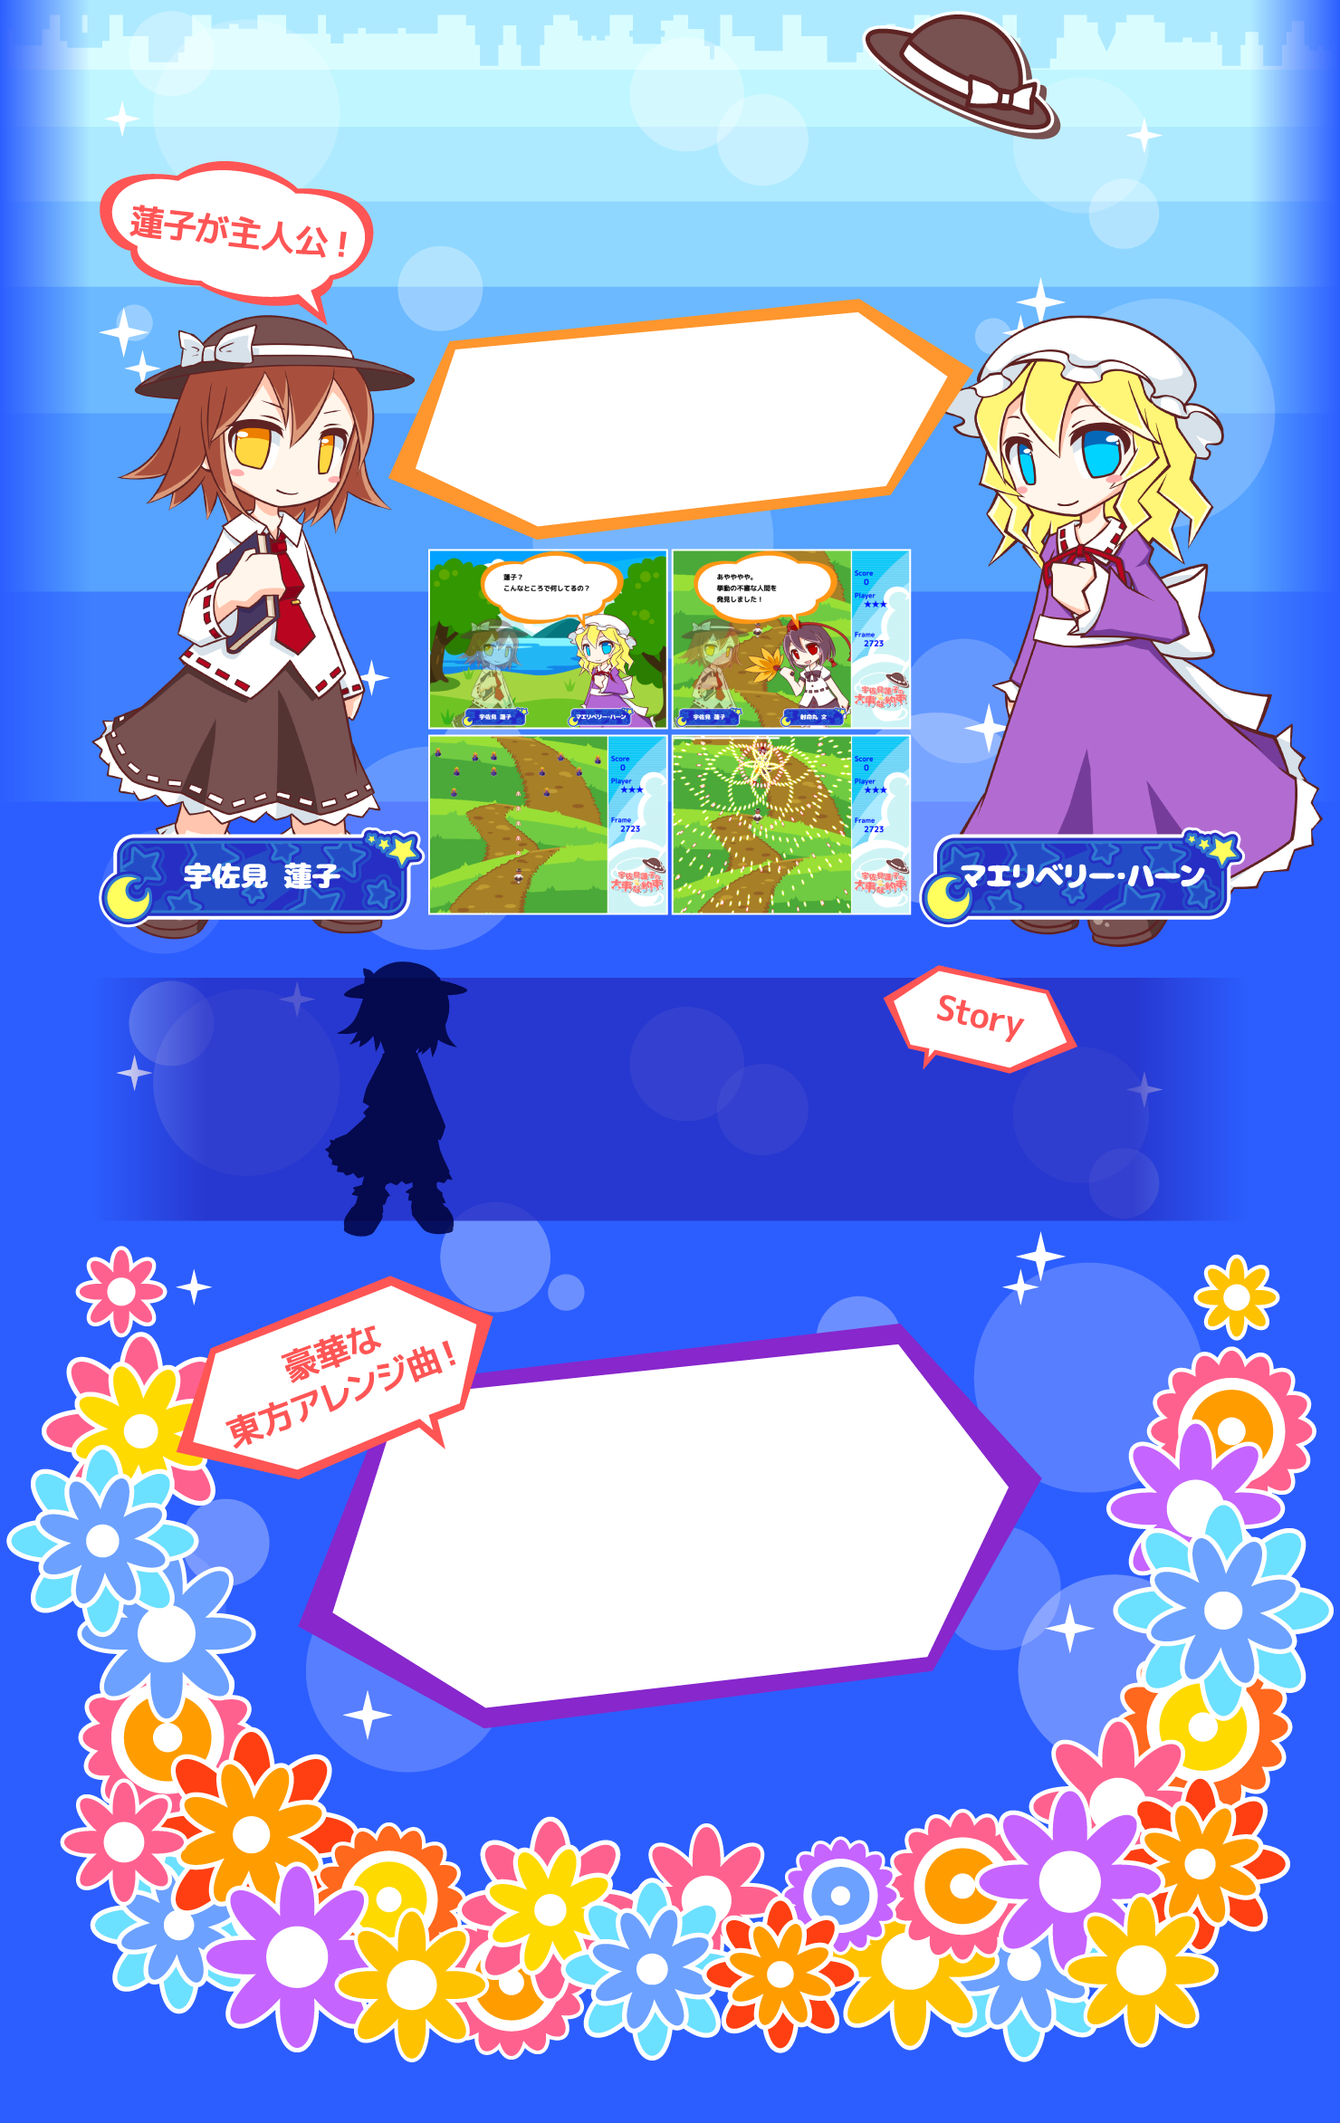
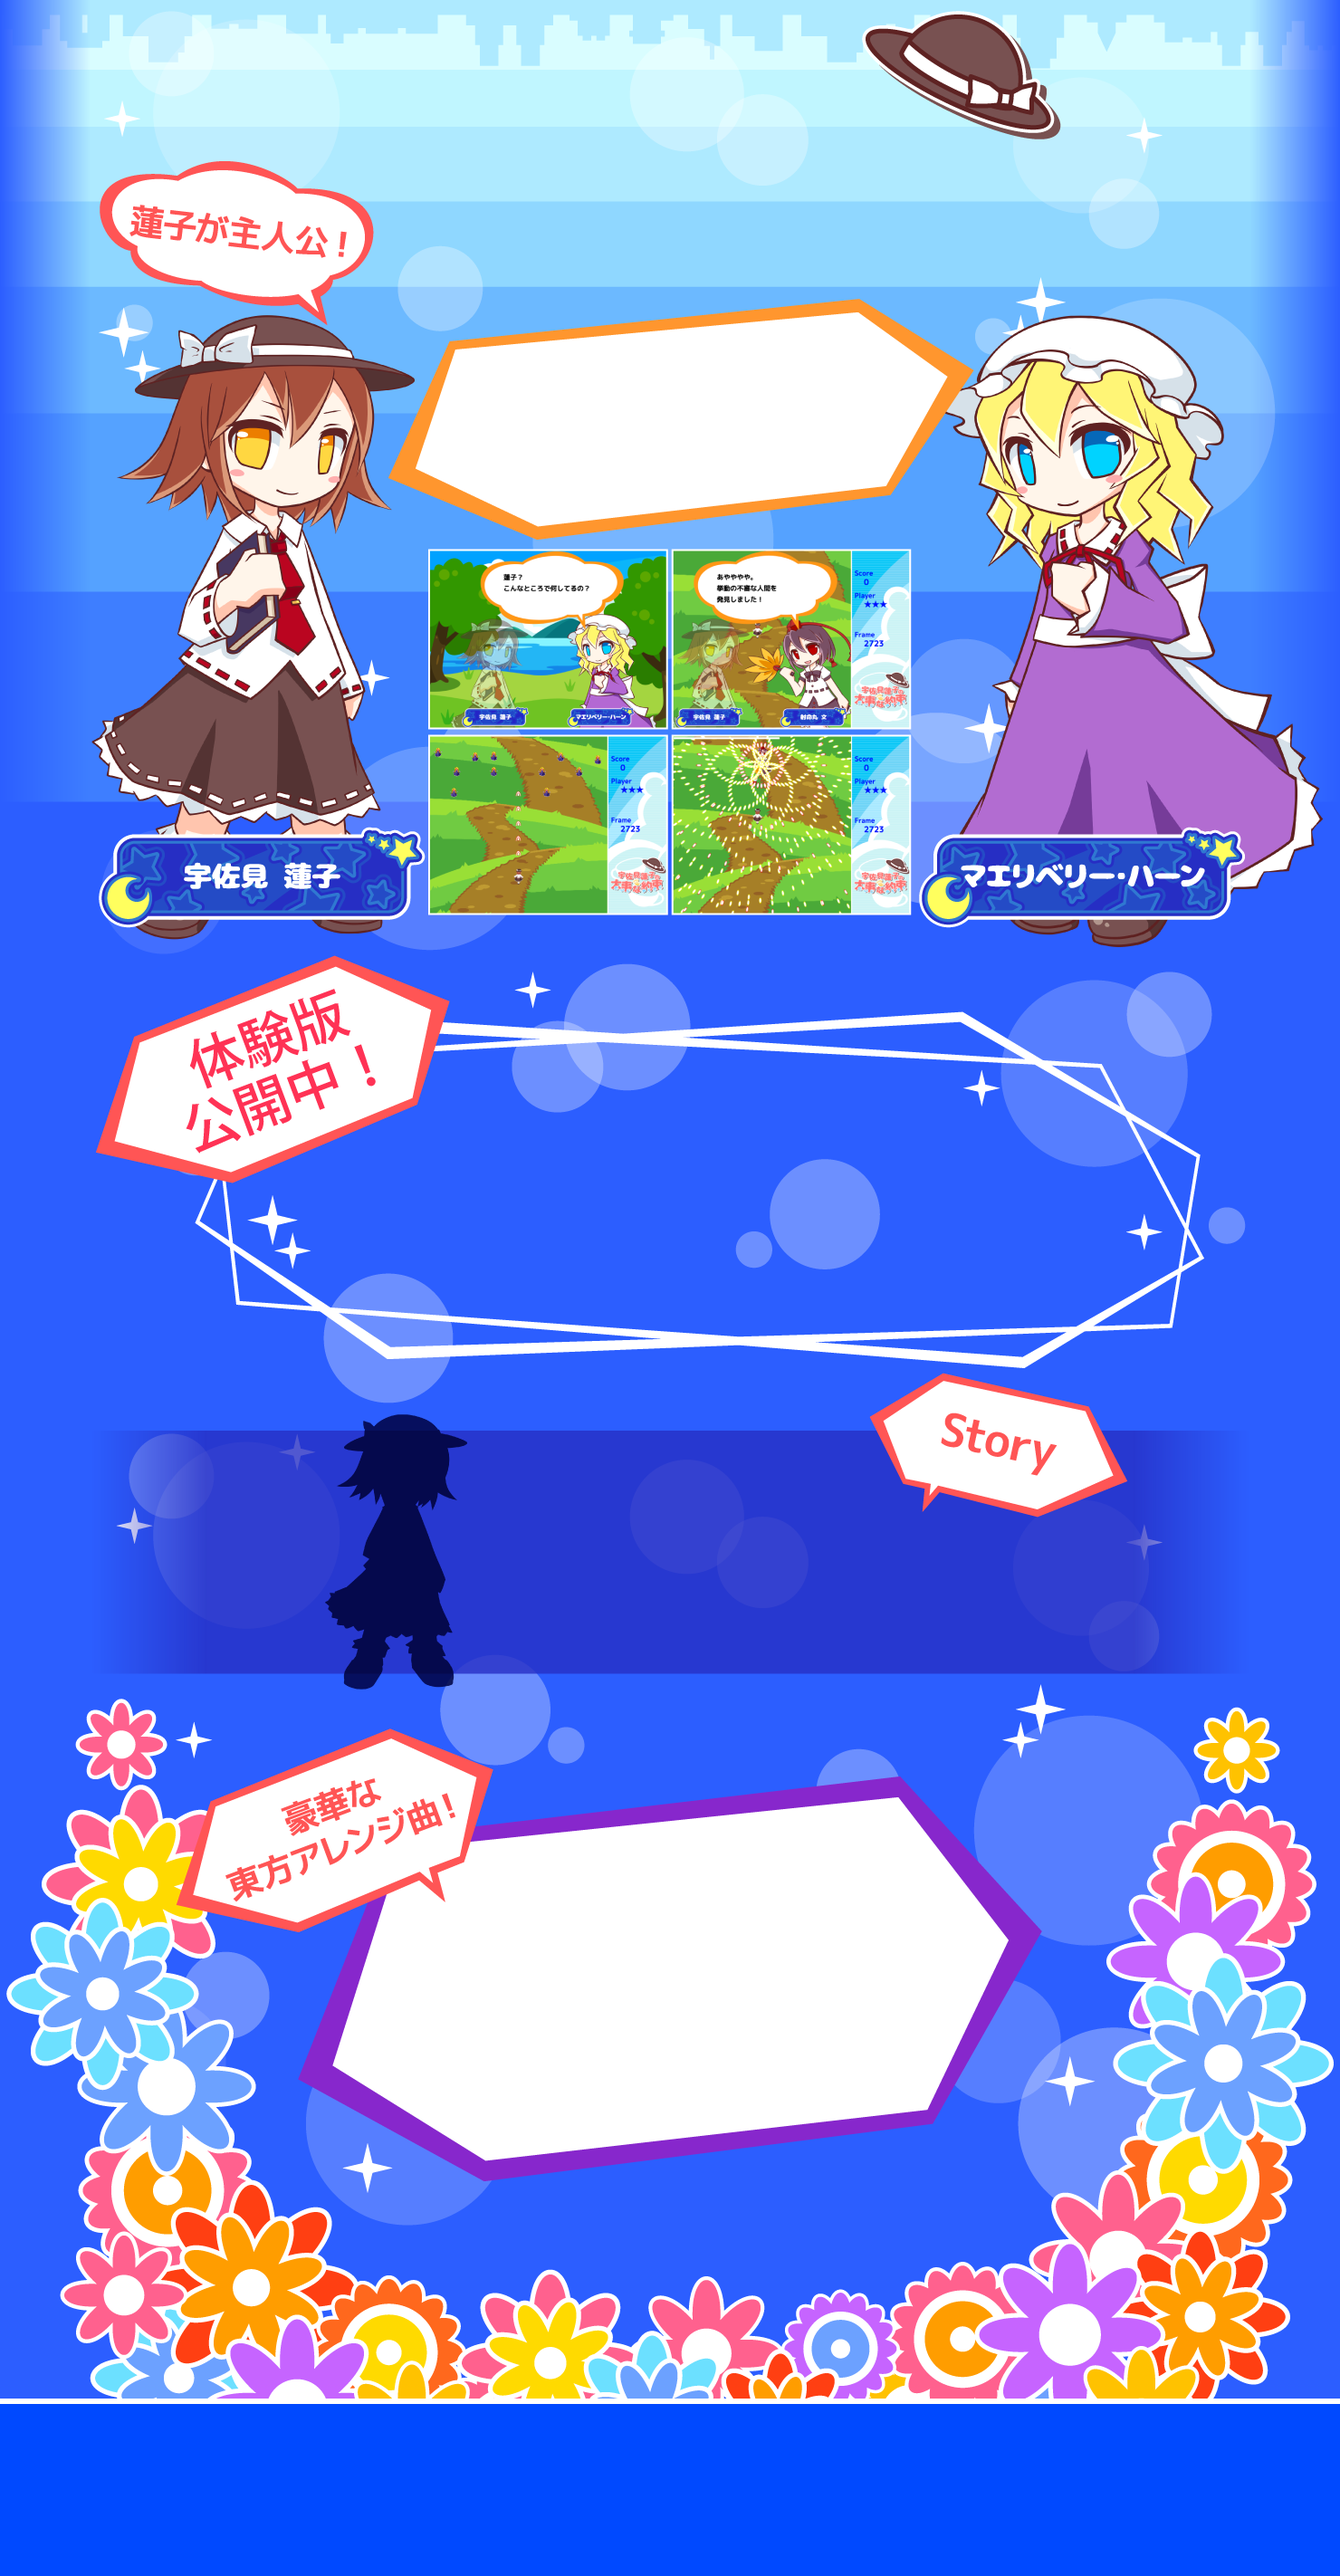
update: yakusoku page to be enable to download prerelease

diff --git a/yakusoku/css/main.css b/yakusoku/css/main.css
@@ -31,14 +31,54 @@ Body {
 	line-height: 40px;
 	margin-bottom: 550px;
 }
+#taiken {
+	height: 250px;
+	padding-top: 150px;
+	padding-bottom: 100px;
+	padding-right: 250px;
+	padding-left: 300px;
+	font-family: "ヒラギノ角ゴ Pro W3", "Hiragino Kaku Gothic Pro", "メイリオ", Meiryo, Osaka, "ＭＳ Ｐゴシック", "MS PGothic", sans-serif;
+	color: #FFF;
+}
+#DLtext {
+	font-family: "ＭＳ ゴシック", "MS Gothic", "Osaka－等幅", Osaka-mono, monospace;
+	font-size: 36px;
+	display: block;
+	margin-left: 100px;
+	margin-top: 50px;
+	color: #FFF;
+	font-weight: bold;
+	float: left;
+	width: 350px;
+}
+#taikenLink  {
+	margin-right: auto;
+	margin-left: auto;
+	display: block;
+	width: 400px;
+	height: 128px;
+}
+#taiken #attention {
+	font-family: "ヒラギノ角ゴ Pro W3", "Hiragino Kaku Gothic Pro", "メイリオ", Meiryo, Osaka, "ＭＳ Ｐゴシック", "MS PGothic", sans-serif;
+	font-size: 16px;
+	color: #FFF;
+	clear: left;
+	margin-right: 150px;
+	margin-left: 150px;
+	display: block;
+	padding-top: 20px;
+}
+
+
+
 #story {
-	width: 420px;
+	width: 500px;
 	margin-right: auto;
 	margin-left: auto;
 	font-family: "ヒラギノ角ゴ Pro W3", "Hiragino Kaku Gothic Pro", "メイリオ", Meiryo, Osaka, "ＭＳ Ｐゴシック", "MS PGothic", sans-serif;
 	font-weight: bold;
 	color: #FFF;
-	font-size: 20px;
+	font-size: 24px;
 	line-height: 42px;
 	padding-bottom: 30px;
 	padding-top: 30px;
@@ -62,7 +102,7 @@ Body {
 	font-family: "ヒラギノ角ゴ Pro W3", "Hiragino Kaku Gothic Pro", "メイリオ", Meiryo, Osaka, "ＭＳ Ｐゴシック", "MS PGothic", sans-serif;
 	font-weight: bold;
 	color: #FFF;
-	margin-bottom: 200px;
+	margin-bottom: 150px;
 }
 #footer {
 	height: 200px;

diff --git a/yakusoku/index.html b/yakusoku/index.html
@@ -1,3 +1,4 @@
+
 <!DOCTYPE html>
 <html lang="ja">
 
@@ -30,7 +31,17 @@
 正統派東方二次創作STGです。</center></p>
         </div><!--end about-->
         
-        <div id = "story">
+        <div id = "taiken">
+        	<p id = "DLtext">DLはこちらから　→</p>
+            <a id = "taikenLink" href="http://yakusoku.sai-chan.com/taikenban.zip" target="_blank"><img src="image/icon.png" width="400" height="128" alt="体験版DLリンク"></a>
+		  <p id = "attention"><center>※ゲームをプレイする前に、必ずreadme.txtをお読みください。<br>
+          ご意見、ご感想をお待ちしています。是非こちらまでお寄せください。<br>
+           <a href="https://twitter.com/sunflowergame" target="_blank"><img id="twitter" src="image/twitter.png" width="300" height="45" alt="Twitter"></a>
+          　</center></p>
+      </div>
+        <!--end taiken-->
+        
+  <div id = "story">
         	<p><center>突然目の前に現れた、<br>
 蓮子にそっくりな謎の人物。<br>
 彼女は「約束を守りなさい」と繰り返す。<br>
